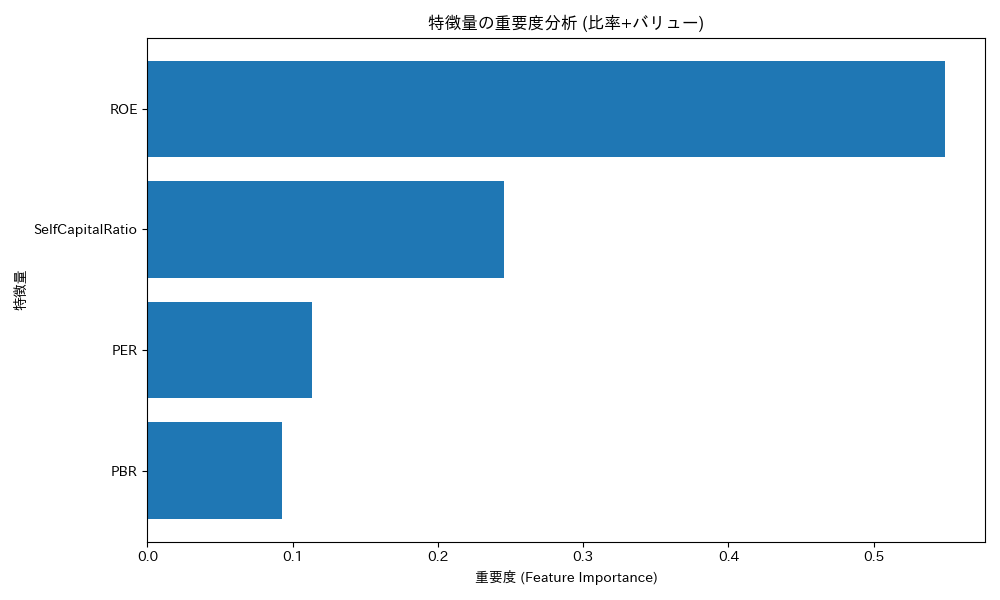
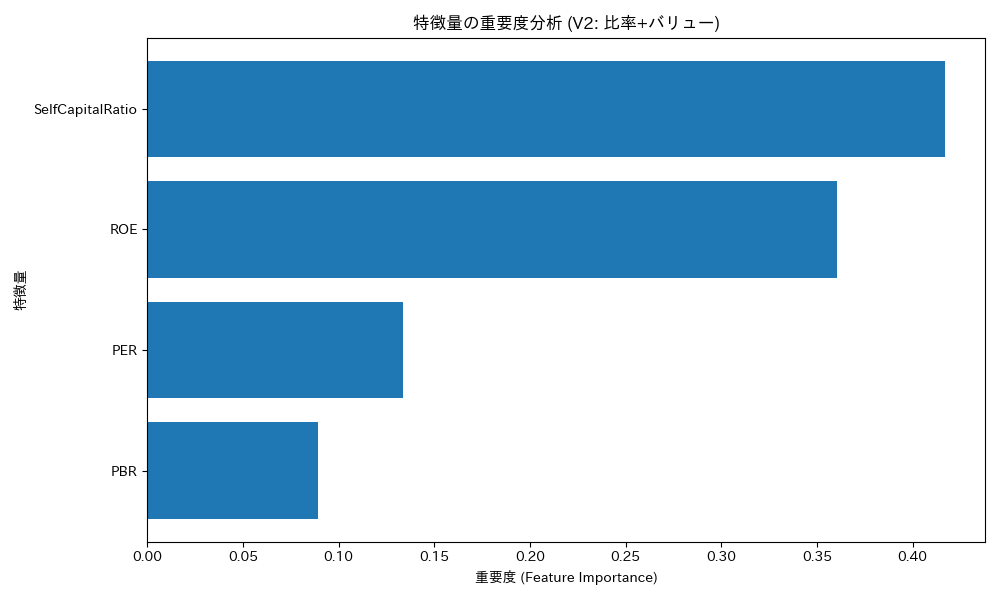
kansei

diff --git a/sisaku/train_model.py b/sisaku/train_model.py
@@ -15,7 +15,6 @@ except FileNotFoundError:
     exit()
 
 # --- 2. 特徴量 (X) と 目的変数 (y) の準備 ---
-# ★★★ 特徴量リストにPER, PBRを追加 ★★★
 features = [
     'ROE', 
     'SelfCapitalRatio',
@@ -25,30 +24,56 @@ features = [
 X = dataset[features]
 y = dataset['target']
 
-# --- 3. データの分割 (正しい時系列分割) ---
-split_point = int(len(X) * 0.8)
-split_date = X.index[split_point]
+# --- 3. データの分割 (60-20-20の時系列分割) ---
+# ★★★ ここからが修正点 ★★★
+# 60%地点と80%地点の「行番号」を計算
+split_point_1 = int(len(X) * 0.6)
+split_point_2 = int(len(X) * 0.79)
+
+# その「行番号」にある「日付」を取得
+split_date_1 = X.index[split_point_1]
+split_date_2 = X.index[split_point_2]
+
 print(f"\n--- データの分割 ---")
-print(f"分割日: {split_date}")
+print(f"全データ期間: {X.index.min()} から {X.index.max()} まで")
+print(f"学習データ (〜60%): 〜 {split_date_1}")
+print(f"テスト1 (60%〜80%): {split_date_1} 〜 {split_date_2}")
+print(f"テスト2 (80%〜100%): {split_date_2} 〜")
 
-X_train = X[X.index < split_date]
-y_train = y[y.index < split_date]
-X_test = X[X.index >= split_date]
-y_test = y[y.index >= split_date]
+# 学習データ (最初の60%)
+X_train = X[X.index < split_date_1]
+y_train = y[y.index < split_date_1]
 
-print(f"学習データ数: {len(X_train)}")
-print(f"テストデータ数: {len(X_test)}")
+# テストデータ1 (次の20%)
+X_test1 = X[(X.index >= split_date_1) & (X.index < split_date_2)]
+y_test1 = y[(y.index >= split_date_1) & (y.index < split_date_2)]
+
+# テストデータ2 (最後の20%)
+X_test2 = X[X.index >= split_date_2]
+y_test2 = y[y.index >= split_date_2]
+# ★★★ 修正完了 ★★★
+
+print(f"\n学習データ数: {len(X_train)}")
+print(f"テストデータ1 数: {len(X_test1)}")
+print(f"テストデータ2 数: {len(X_test2)}")
 
 # --- 4. XGBoostモデルの学習 ---
 print("\nXGBoostモデルの学習を開始します...")
-model = xgb.XGBClassifier(objective='binary:logistic', eval_metric='logloss', use_label_encoder=False)
+model = xgb.XGBClassifier(objective='binary:logistic', eval_metric='logloss', use_label_encoder=False, base_score=0.5)
 model.fit(X_train, y_train)
 print("✅ 学習完了。")
 
 # --- 5. モデルの評価 ---
-y_pred = model.predict(X_test)
-accuracy = accuracy_score(y_test, y_pred)
-print(f"\n📈 *** V2 正解率 (Accuracy): {accuracy:.4f} ***")
+# ★★★ 評価を2回実行 ★★★
+print("\n--- テスト1の評価 ---")
+y_pred1 = model.predict(X_test1)
+accuracy1 = accuracy_score(y_test1, y_pred1)
+print(f"📈 *** V2 テスト1 正解率 (Accuracy): {accuracy1:.4f} ***")
+
+print("\n--- テスト2の評価 ---")
+y_pred2 = model.predict(X_test2)
+accuracy2 = accuracy_score(y_test2, y_pred2)
+print(f"📈 *** V2 テスト2 正解率 (Accuracy): {accuracy2:.4f} ***")
 
 # --- 6. 特徴量の重要度の可視化 ---
 print("\n特徴量の重要度を分析しています...")
@@ -64,11 +89,10 @@ plt.figure(figsize=(10, 6))
 plt.barh(importance_df['feature'], importance_df['importance'])
 plt.xlabel('重要度 (Feature Importance)')
 plt.ylabel('特徴量')
-plt.title('特徴量の重要度分析 (比率+バリュー)')
-plt.gca().invert_yaxis() # 重要度が高い順に上から表示
+plt.title('特徴量の重要度分析 (V2: 比率+バリュー)')
+plt.gca().invert_yaxis()
 plt.tight_layout()
 
-# グラフをファイルに保存
 graph_filename = 'feature_importance_v2_VALUE.png'
 plt.savefig(graph_filename)
 print(f"\n📊 特徴量の重要度グラフを '{graph_filename}' として保存しました。")
